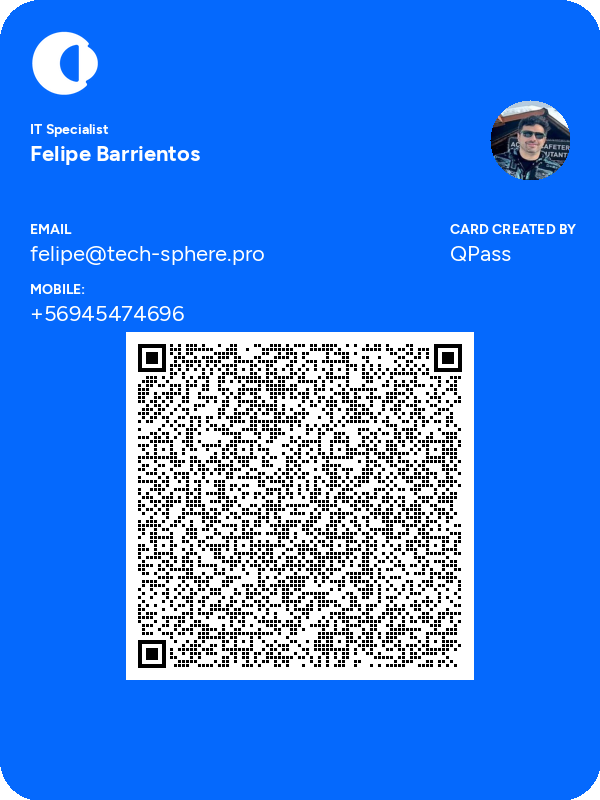
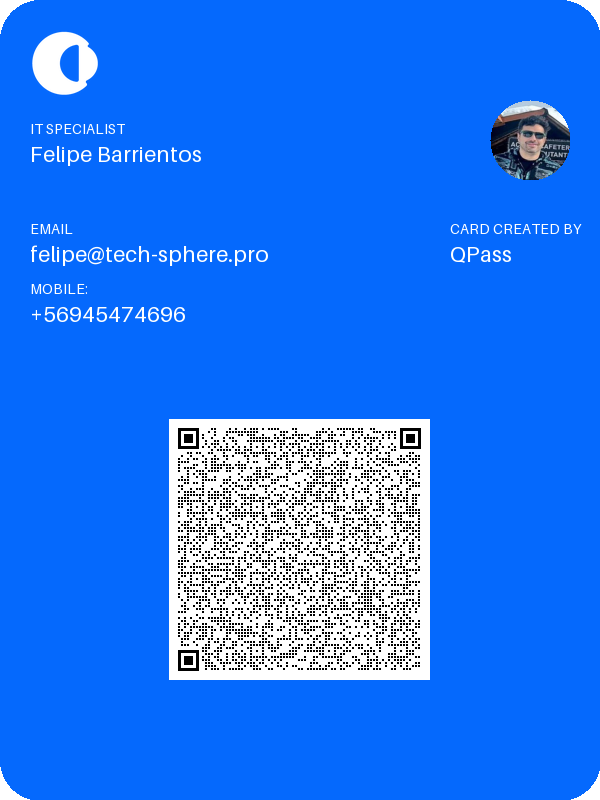
font changes

Changed region(s): [[0.06, 0.2812, 0.81, 0.875], [0.06, 0.1562, 0.33, 0.2188], [0.75, 0.2812, 0.96, 0.3438]]

diff --git a/qrgenerator.py b/qrgenerator.py
@@ -159,12 +159,12 @@ def create_contact_card(
     #info_font = ImageFont.load_default()
     #created_by_font = ImageFont.load_default()
     try:
-        company_font = ImageFont.truetype("arial.ttf", size=25)
-        title_font = ImageFont.truetype("arialbd.ttf", size=14)
-        name_font = ImageFont.truetype("arialbd.ttf", size=22)
-        info_font = ImageFont.truetype("arialbd.ttf", size=14)
-        content_font = ImageFont.truetype("arial.ttf", size=22)
-        created_by_font = ImageFont.truetype("arialbd.ttf", size=12)
+        company_font = ImageFont.truetype("/Users/felipe/personal/WalbaumCom-Roman.ttf", size=25)
+        title_font = ImageFont.truetype("/Users/felipe/personal/figtree/fonts/ttf/Figtree-Bold.ttf", size=14)
+        name_font = ImageFont.truetype("/Users/felipe/personal/figtree/fonts/ttf/Figtree-Bold.ttf", size=22)
+        info_font = ImageFont.truetype("/Users/felipe/personal/figtree/fonts/ttf/Figtree-Bold.ttf", size=14)
+        content_font = ImageFont.truetype("/Users/felipe/personal/figtree/fonts/ttf/Figtree-Regular.ttf", size=22)
+        created_by_font = ImageFont.truetype("/Users/felipe/personal/figtree/fonts/ttf/Figtree-Bold.ttf", size=12)
     except:
         company_font = ImageFont.load_default(size=25)
         title_font = ImageFont.load_default(size=14)
